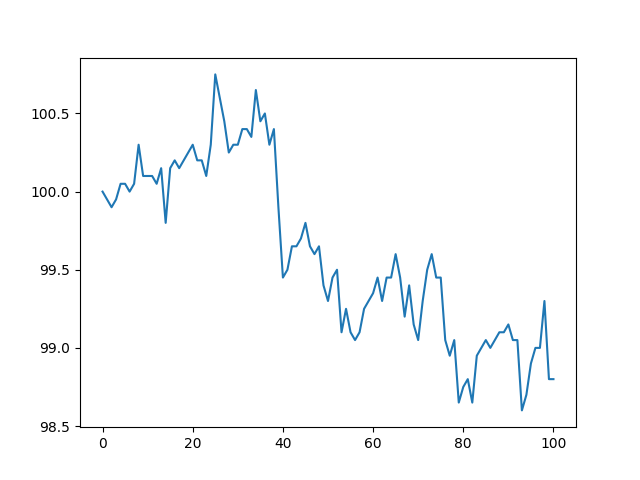
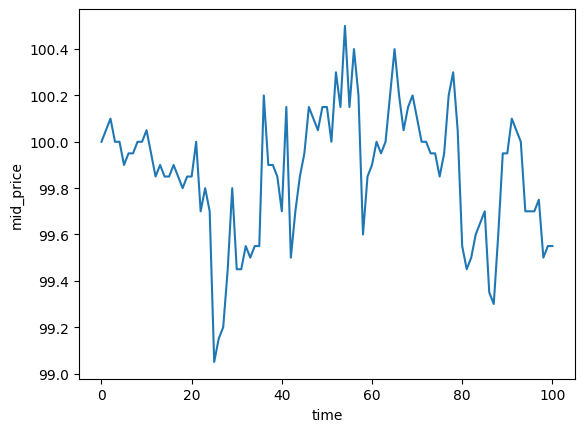
add axes labels

Changed region(s): [[0.0, 0.0602, 0.9863, 0.9931], [0.0, 0.4514, 0.0616, 0.5417], [0.0616, 0.0903, 0.1233, 0.1505]]

diff --git a/lob_simulation/__main__.py b/lob_simulation/__main__.py
@@ -6,7 +6,7 @@ import seaborn as sns
 
 from .lob import LOB
 from .generator import CancelGenerator, LimitOrderGenerator, MarketOrderGenerator
-from .model import LimitDf, CancelDf, MarketDf, Side, Sr
+from .model import Df, LimitDf, CancelDf, MarketDf, Side, Sr
 
 
 UNIT = 0.1
@@ -59,8 +59,8 @@ def main():
 
         init_mid_price = lob.receive_orders(limits=limits)
 
-    mid_price_history = Sr([init_mid_price])
-    for i in range(1, N_ROUND+1):
+    mid_price_history = [Sr({"time": 0, "mid_price": init_mid_price})]
+    for t in range(1, N_ROUND+1):
         limits = pd.concat([lo.run(lob.mid_price) for lo in lo_generators])
         cancels = pd.concat([ca.run() for ca in ca_generators])
         markets = pd.concat([
@@ -68,12 +68,13 @@ def main():
             ms_generator.run(),
         ])
         mid_price = lob.receive_orders(markets=markets, limits=limits, cancels=cancels)
-        logger.info(f"[{i:04}]: {mid_price}")
-        mid_price_history = pd.concat([mid_price_history, Sr([mid_price])], ignore_index=True)
+        logger.info(f"[{t:04}]: {mid_price}")
+        mid_price_history.append(Sr({"time": t, "mid_price": mid_price}))
+    mid_price_history = Df(mid_price_history)
 
     fig, ax = plt.subplots()
-    sns.lineplot(data=mid_price_history, ax=ax)
-    fig.savefig("img/figure.png")
+    sns.lineplot(x="time", y="mid_price", data=mid_price_history, ax=ax)
+    fig.savefig("img/figure.png", bbox_inches="tight")
 
 
 if __name__ == "__main__":
